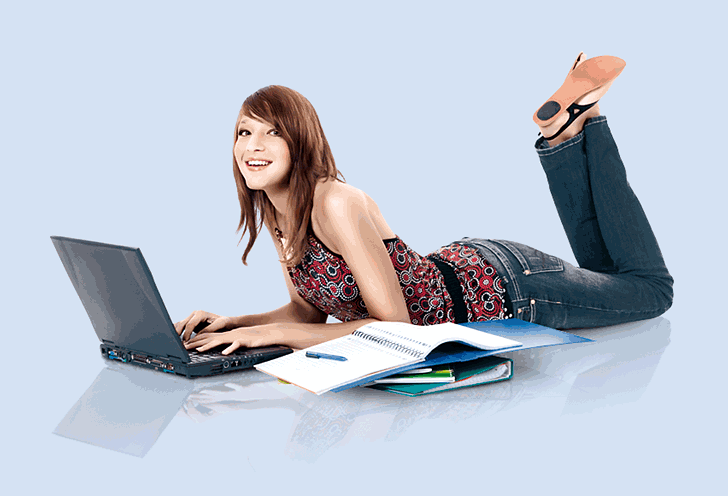
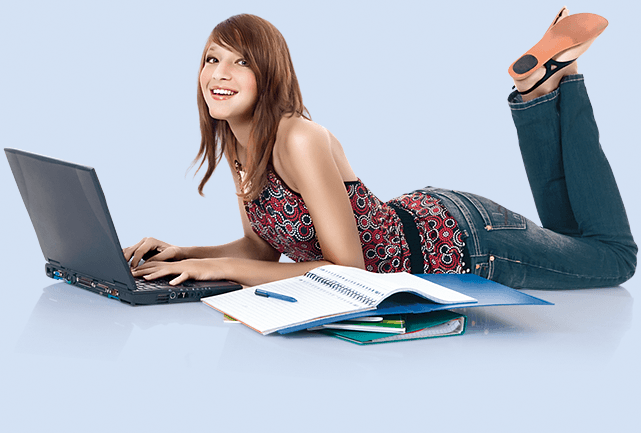
Imagens novas

diff --git a/avaliacao/index.html b/avaliacao/index.html
@@ -220,7 +220,7 @@
 				<li>Banco de questões que testam as habilidades avaliadas pelo ENEM.</li>
 			</ul>
 			<p>As atividades dos bancos podem ser editadas para que correspondam a objetivos específicos. A utilização das atividades pode ser online ou impressa. Quando online, possibilita correção automática, facilitando o trabalho do professor. Além disso, os professores poderão criar outras avaliações, simulados e atividades que utilizem itens dos bancos de questões ou de sua autoria.</p>
-      <h3>A vida do professor seria<br />melhor se ele tivesse um aliado<br />na hora de elaborar questões,<br />simulados e provas?<br />Esse aliado acabou de chegar.</h3>
+      <h3>A vida do professor seria melhor se ele tivesse um<br />aliado na hora de elaborar questões, simulados e provas?<br />Esse aliado acabou de chegar.</h3>
 			<img class="img_destaque" src="../img/1-avaliacao-grafico-o.png" alt="" />
     </div>
   </div>

diff --git a/css/primary.styles.css b/css/primary.styles.css
@@ -408,10 +408,12 @@ body.slug_acompanha .bottom{
 	height:516px;
 }
 body.slug_acompanha #content h3{
-	top:140px;
+	top: 140px;
+	left: 300px;
 }
 body.slug_acompanha #content .img_destaque{
-	left: 160px;
+	left:0px;
+	top:39px;
 }
 body.slug_aplicativos .bottom{
 	top: 335px;
@@ -439,7 +441,8 @@ body.slug_midiateca #content h3{
 	left: 230px;
 }
 body.slug_midiateca #content .img_destaque{
-	left: -80px;
+	left: -40px;
+	top: 86px;
 }
 
 body.slug_ebooks #content  h1{
@@ -473,18 +476,18 @@ body.slug_licoes #content h3{
 	top: 595px;
 }
 body.slug_licoes #content .img_destaque{
-	left: 28px;
-	top: 520px;
+	left: 50px;
+	top: 604px;
 }
 
 body.slug_avaliacao #content  h1{
   border-color:#9ac946;
 }
 body.slug_avaliacao #content h3{
-	top: 485px;
-	left: 250px;
+	left: 0px;
+	top: 469px;
 }
 body.slug_avaliacao #content .img_destaque{
-	left: -67px;
-	top: 420px;
+	left: -21px;
+	top: 550px;
 }

diff --git a/acompanha/index.html b/acompanha/index.html
@@ -223,7 +223,7 @@
         <h3>
         Finalmente tecnologia<br />e educação acharam um jeito<br />perfeito de atuar juntas.
       </h3>
-			<img class="img_destaque" src="../img/0-acompanha-morena-o.png" alt="" />
+			<img class="img_destaque" src="../img/0-acompanha-o.png" alt="" />
       </div>
     </div>
   </div>
